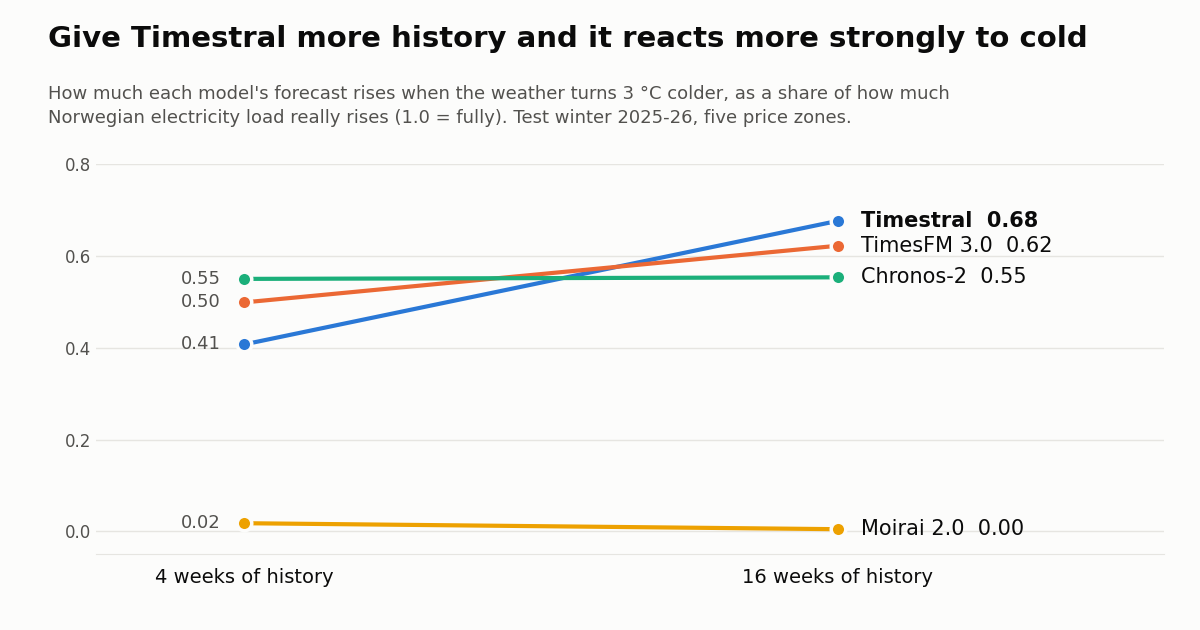
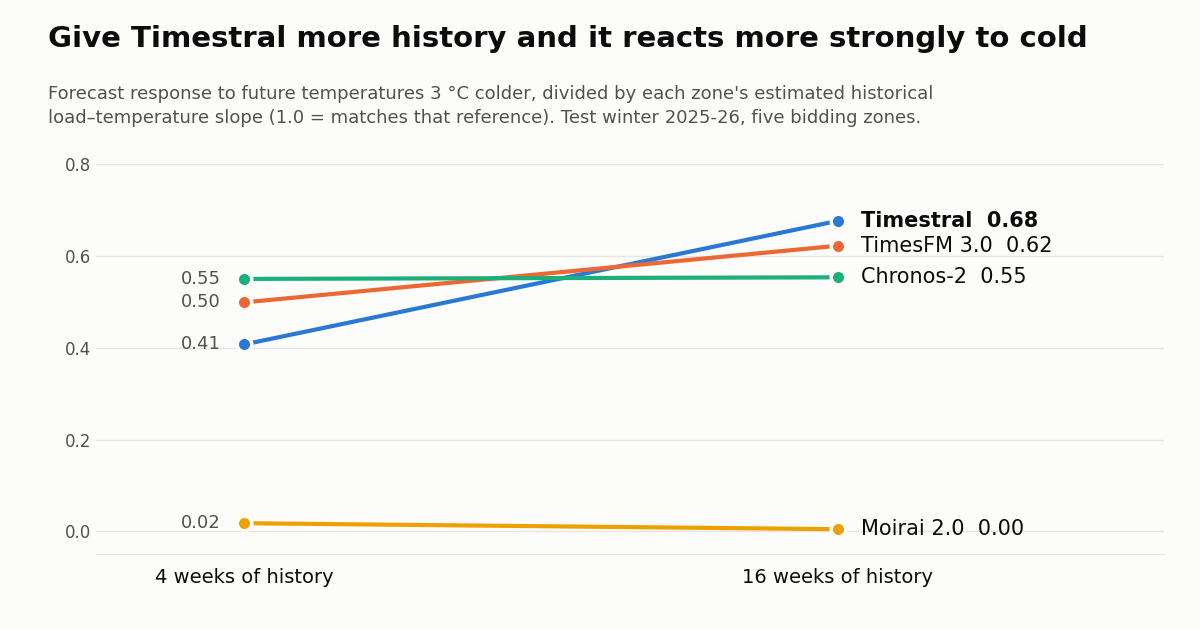
Clarify historical reference in Timestral thumbnail

Changed region(s): [[0.0308, 0.1206, 0.8017, 0.2111]]

diff --git a/src/headline.py b/src/headline.py
@@ -103,8 +103,8 @@ def thumbnail(cfg):
     ax.set_axisbelow(True)
     fig.text(0.04, 0.925, "Give Timestral more history and it reacts more strongly to cold", fontsize=21,
              color=ink, fontweight="bold", ha="left")
-    fig.text(0.04, 0.865, "How much each model's forecast rises when the weather turns 3 °C colder, as a share of how much\n"
-                          "Norwegian electricity load really rises (1.0 = fully). Test winter 2025-26, five price zones.",
+    fig.text(0.04, 0.865, "Forecast response to future temperatures 3 °C colder, divided by each zone's estimated historical\n"
+                          "load–temperature slope (1.0 = matches that reference). Test winter 2025-26, five bidding zones.",
              fontsize=13, color=ink2, ha="left", va="top", linespacing=1.4)
     fig.subplots_adjust(left=0.08, right=0.97, top=0.74, bottom=0.12)
     fig.savefig(ROOT / cfg["paths"]["results"] / "figures" / "thumbnail.png", facecolor=surface)
